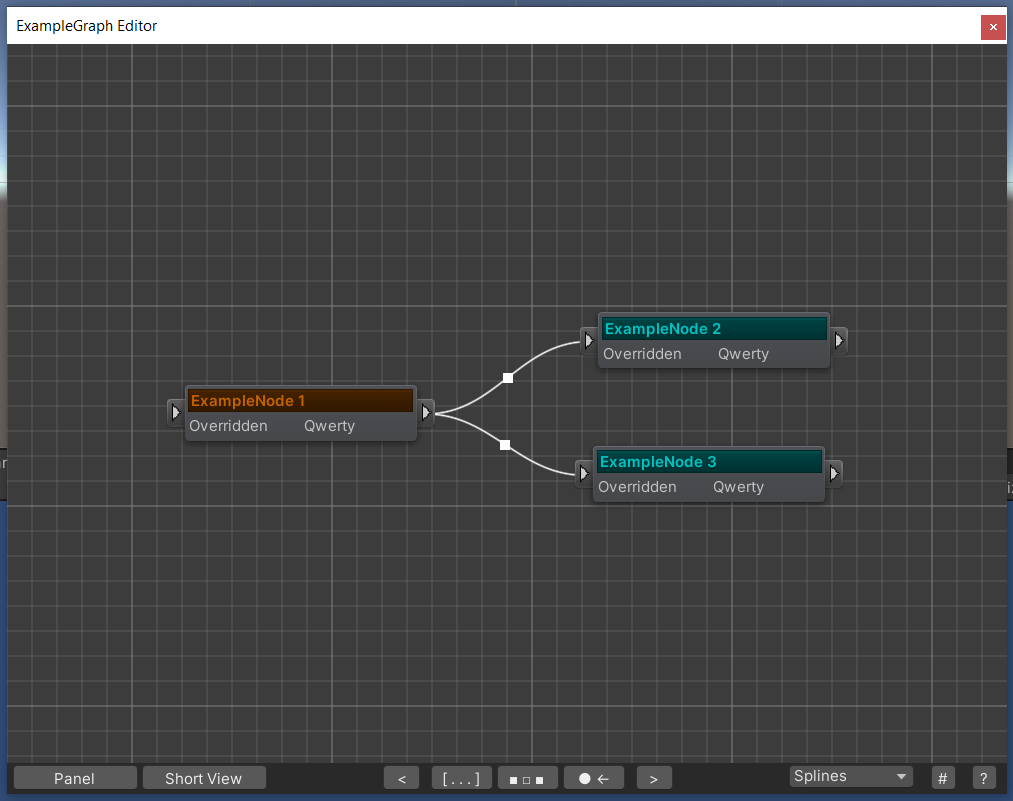
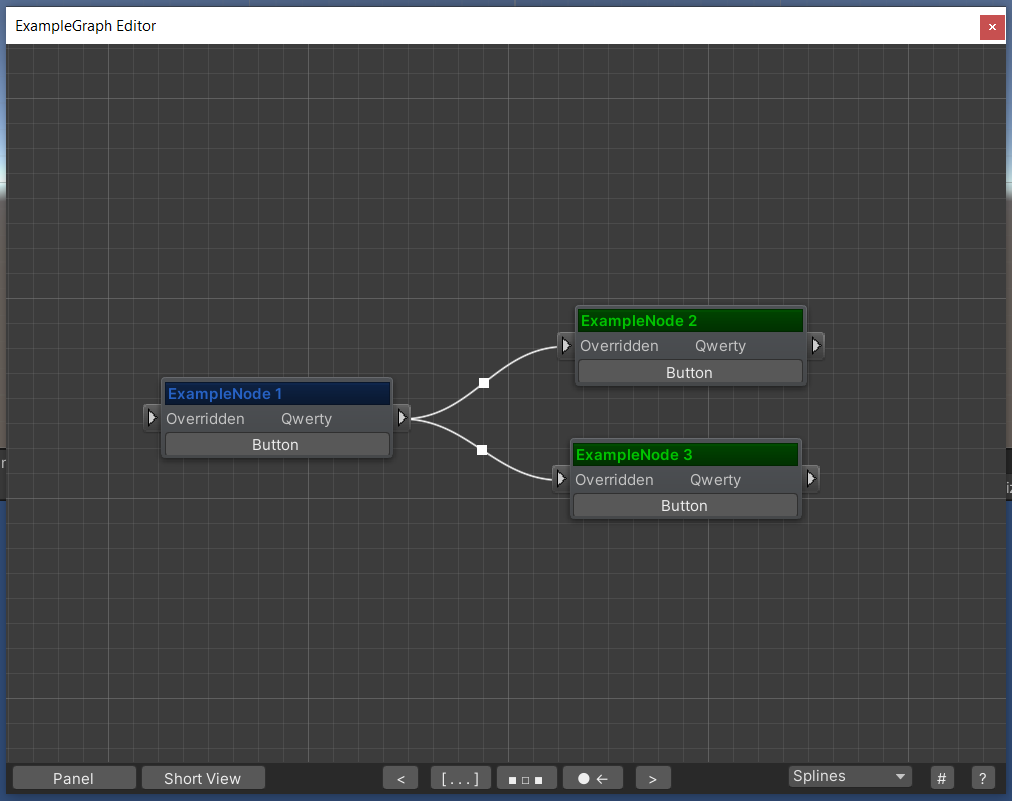
upd README.md for NodeBased

diff --git a/Code/Runtime/OlegHcp/NodeBased/README.md b/Code/Runtime/OlegHcp/NodeBased/README.md
@@ -59,16 +59,29 @@ public class Example : MonoBehaviour
 ### Custom Node View
 
 ```csharp
+using OlegHcp;
 using OlegHcpEditor.NodeBased;
 using UnityEditor;
+using UnityEngine;
 
 [CustomNodeDrawer(typeof(ExampleNode))]
 public class ExampleNodeDrawer : NodeDrawer
 {
+    protected override float GetHeight(SerializedProperty property)
+    {
+        return base.GetHeight(property) * 2f;
+    }
+
+    protected override Color GetHeaderColor(bool rootNode)
+    {
+        return rootNode ? Colours.Sky : Colours.Lime;
+    }
+
     protected override void OnGui(SerializedProperty property, float width)
     {
         EditorGUIUtility.labelWidth = width * 0.5f;
         EditorGUILayout.LabelField("Overridden", "Qwerty");
+        GUILayout.Button("Button");
     }
 }
 ```
